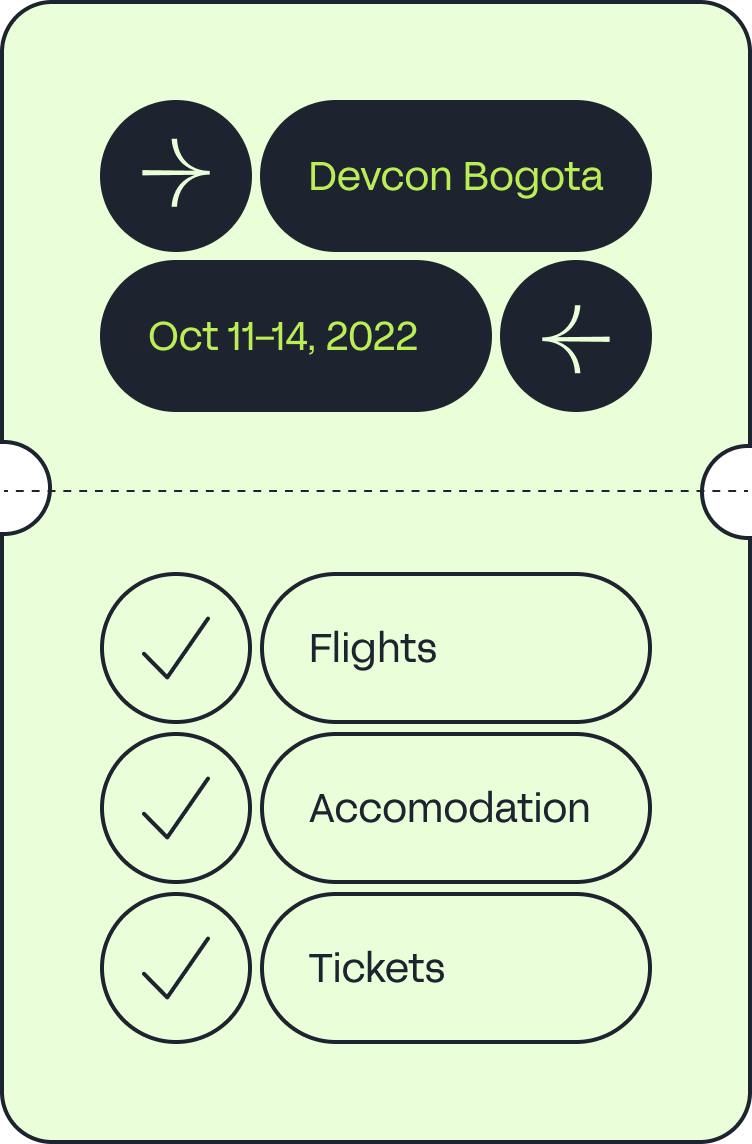
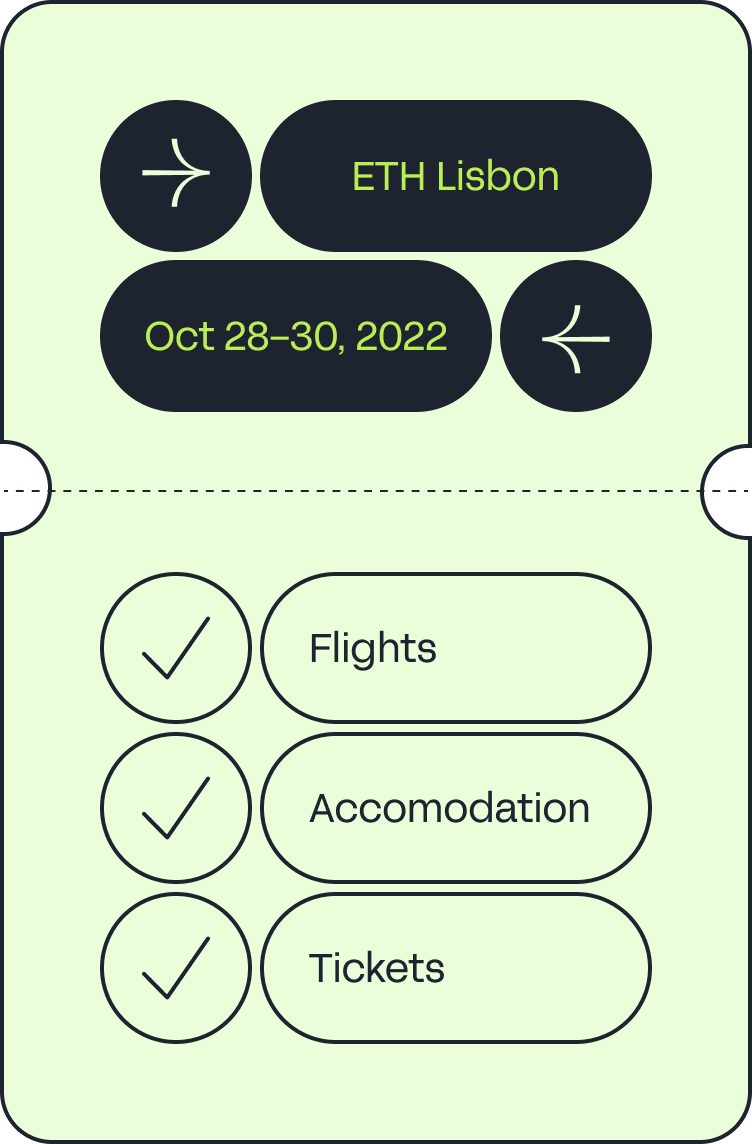
Fix buttons and show ETH Lisbon img instead of Devcon Bogota

Changed region(s): [[0.3976, 0.1224, 0.7952, 0.1836], [0.1835, 0.2753, 0.6117, 0.3059]]

diff --git a/components/footer/index.tsx b/components/footer/index.tsx
@@ -27,13 +27,6 @@ export const Footer = ({ isMobile }: Props) => {
               <CopyrightTypography>
                 {COPY.FOOTER.DESCRIPTION}
               </CopyrightTypography>
-              <AwardContainer>
-                <Image
-                  priority
-                  src={awardImage}
-                  alt="smoothie award"
-                />
-              </AwardContainer>
             </PresentationColumn>
             <NavigationArea>
               <NavList>

diff --git a/components/landing-hero/reserve-handle-button/index.tsx b/components/landing-hero/reserve-handle-button/index.tsx
@@ -7,7 +7,7 @@ export const ReserveHandleButton = ({
   isMobile,
 }: Props) => (
   <ButtonContainer>
-    <StyledReserveHandleButton onClick={callback}>
+    <StyledReserveHandleButton onClick={callback} style={{top: isMobile ? "-15px" : "-13px"}}>
       {isMobile
         ? COPY.LANDING_HERO.RESERVE_TAL.BUTTON_MOBILE
         : COPY.LANDING_HERO.RESERVE_TAL.BUTTON}

diff --git a/components/take-the-leap-banner/styled.ts b/components/take-the-leap-banner/styled.ts
@@ -81,11 +81,10 @@ export const StyledButton = styled.button`
   ${fontNormal}
   width: 52px;
   height: 52px;
-  overflow: hidden;
   font-weight: 400;
   font-size: 30px;
-  line-height: 24px;X
-  padding: 12px;
+  line-height: 24px;
+  padding: 0px;
   background: ${COLORS.DARK_BLUE};
   color: ${COLORS.LIGHT_YELLOW};
   border-radius: 60%;

diff --git a/components/landing-hero/reserve-handle-button/styled.ts b/components/landing-hero/reserve-handle-button/styled.ts
@@ -8,7 +8,6 @@ export const ButtonContainer = styled.div`
 export const StyledReserveHandleButton = styled.button`
   position: absolute;
   padding: 13px 32px;
-  top: -13px;
   left: -24px;
   transform: translate(-50%, 0);
   border-radius: 32px;
